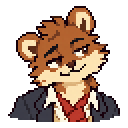
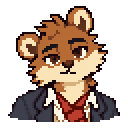
ch1 preview: 역전재판식 증거 창(짧은 한 줄·자세히 보기·다람 메모 선택), 증언 겹침·번짐 수정, 재탭 네모 상자 수정, 아빠 기본 프로필 교체
- 증거 획득 창: 그림/노란 띠 제목/짧은 한 줄, 자세히 보기·다람 메모는 눌러야 열림, 《이름》을 기록에 넣었다
- 기록 상세 동일 방식(가운데 쪽지), 증언은 다람 메모 없음, 별표·줄기 숨김, 인물 탭에 아빠·다람 기본 정보
- 증언 .cr-q/.cr-a 같은 칸 겹침, Galmuri11B 이중 굵게 합성 제거(patches/25)
- 챙긴 증거 자리 재탭 시 침대 관찰로 새어 '확인' 상자가 생기던 문제, 관찰 자리 표시 제거
- 배경음 조사/회의/결정 장면 분리, 쉼표 두 줄·멈춤, 전자음 타자, 음량 실시간(patches/24)
- 아빠 기본 프로필: 사용자 확정 정직·따뜻한 얼굴, 이전 능청 얼굴은 father-sly-*로 보존(연결 없음)

Claude-Session: https://claude.ai/code/session_01T49VRF9dewW4fTqd45Bdaz

diff --git a/preview/ch1-gpt-20261008/dev/inn_ui9.js b/preview/ch1-gpt-20261008/dev/inn_ui9.js
@@ -37,7 +37,7 @@
   function mvClose(){if(MV){MV.remove();MV=null}B.classList.remove("innmv-on")}
   function mvOpen(btn){mvClose();var c=CASES[G.ci],h='<div class="hd"><b>장소 이동</b><button type="button" data-x="1" aria-label="닫기">×</button></div><div class="ls">';
    c.locations.forEach(function(l,i){var open=true;try{open=locOpen(c,i)}catch(e){}if(!open)return;var here=i===G.loc;
-    h+='<button type="button" data-i="'+i+'"'+(here?' disabled aria-current="true"':'')+'><span>'+(SHORT[l.id]||l.name)+'</span>'+(here?'<small>지금 여기</small>':'<i aria-hidden="true">›</i>')+'</button>'});
+    h+='<button type="button" data-i="'+i+'"'+(here?' disabled aria-current="true"':'')+'><span>'+(SHORT[l.id]||l.name)+'</span>'+(here?'<small>지금 여기</small>':'')+'</button>'});
    h+='</div><button type="button" class="wm" data-map="1">전체 지도</button>';
    MV=document.createElement("div");MV.id="innmove";MV.setAttribute("role","dialog");MV.setAttribute("aria-label","장소 이동");MV.innerHTML=h;B.appendChild(MV);B.classList.add("innmv-on");
    MV.addEventListener("click",function(e){var t=e.target.closest("button");if(!t)return;e.preventDefault();e.stopPropagation();
@@ -77,6 +77,9 @@
    /* 2026-10-10 "가방 누르는 범위가 그림과 안 맞는다": 증거 지점·인물 바로 옆(28px 안)을 누르면 큰 물건 관찰(예: 침대) 대신 그 지점을 연다 */
    var near=null,nd=1e9;[].slice.call(d.sc.querySelectorAll(".hot:not(.done),.npc")).forEach(function(h){var r=h.getBoundingClientRect();if(!r.width)return;var dx=Math.max(r.left-e.clientX,0,e.clientX-r.right),dy=Math.max(r.top-e.clientY,0,e.clientY-r.bottom),dd=Math.max(dx,dy);if(dd<=28&&dd<nd){nd=dd;near=h}});
    if(near){setTimeout(function(){try{near.click()}catch(x){}},0);return}
+   /* 2026-10-10 "침대·자물쇠 상자를 다시 누르면 다른 네모 상자가 생긴다": 이미 챙긴 증거 자리(주머니·손자국·상자)를 다시 누르면 뒤의 침대 관찰로 새어 나가 엉뚱한 자리에 표시가 생기던 문제. 그 증거 이름만 짧게 알려 준다 */
+   var dn=null;nd=1e9;[].slice.call(d.sc.querySelectorAll(".hot.done[data-done]")).forEach(function(h){var r=h.getBoundingClientRect();if(!r.width)return;var dx=Math.max(r.left-e.clientX,0,e.clientX-r.right),dy=Math.max(r.top-e.clientY,0,e.clientY-r.bottom),dd=Math.max(dx,dy);if(dd<=28&&dd<nd){nd=dd;dn=h}});
+   if(dn){var ev=(window.EP1INN&&window.EP1INN.EV||{})[dn.dataset.done];try{SFX.select()}catch(x){}obShow("("+(ev?ev.name:"이미 살펴본 곳")+". 이미 증거로 챙겼다.)");return}
    var l=loc(),list=l&&OBS[l.id],p=worldPt(d.sc,e.clientX,e.clientY),hit=null;
    var hi=-1;if(list&&p)for(var i=0;i<list.length;i++){var r=list[i];if(p.x>=r[0]&&p.x<=r[0]+r[2]&&p.y>=r[1]&&p.y<=r[1]+r[3]){hit=r[4];hi=i;break}}
    if(hi>=0){markSeen(l.id,hi);setTimeout(drawMarks,0)}
@@ -124,7 +127,7 @@
    "html body.w209.inn1 .fstalk .tpanel .topic{position:relative!important;min-height:40px!important;padding:6px 10px 6px 30px!important;text-align:left!important;border-width:1.5px!important}",
    "html body.w209.inn1 .fstalk .tpanel .topic .tn{position:absolute!important;left:10px!important;top:50%!important;transform:translateY(-50%)!important;margin:0!important}",
    "html body.w209.inn1 .fstalk .tpanel .topic.done{background:rgba(226,214,188,.92)!important;color:#5A4A36!important}",
-   "html body.w209.inn1 .fstalk .tpanel .topic.done::before{content:'✓';position:absolute;left:9px;top:50%;transform:translateY(-50%);font-size:15px;color:#3D7A4A;font-weight:700}",
+   "html body.w209.inn1 .fstalk .tpanel .topic.done::before{content:'들음';position:absolute;left:auto;right:9px;top:50%;transform:translateY(-50%);font-size:var(--t-cap,12px);color:#3D7A4A;font-weight:400}","html body.w209.inn1 .fstalk .tpanel .topic.done{padding-left:12px!important;padding-right:44px!important}",
    "html body.w209.inn1 .fstalk .tpanel .topic.done::after{display:none!important}",
    "html body.w209.inn1 .fstalk .tpanel .topic.done .tn{display:none!important}",
    "html body.w209.inn1 .fstalk .tpanel .topic:focus-visible,html body.w209.inn1 .fstalk .tpanel .topic.sel9{outline:2px solid #FFD84D!important;outline-offset:0!important;border-color:#B8860B!important}",
@@ -168,6 +171,41 @@
    "html body.w209.inn1 .fstalk .tstage .tfig img[data-fr9]{animation:in9 .24s ease-out}@keyframes in9{from{opacity:0;translate:0 10px}to{opacity:1;translate:0 0}}",
    "html body.w209.inn1 .fstalk .tstage .tfig img.bump9{animation:bump9 .28s ease-out!important}@keyframes bump9{40%{translate:0 -8px}100%{translate:0 0}}",
    /* 증거 획득 창: 그림 왼쪽·글 오른쪽, 확인 단추는 글자 크기에 맞춘 보통 크기 */
+   "#e9pop{position:fixed;inset:0;z-index:2000;background:rgba(10,8,6,.55);display:flex;align-items:center;justify-content:center;padding:16px;box-sizing:border-box;cursor:pointer}",
+   "#e9pop .e9pc{width:min(580px,100%);max-height:100%;overflow-y:auto;box-sizing:border-box;background:#FBF4E2;border:3px solid #6B4A2B;box-shadow:0 0 0 3px #2A1C12;padding:12px 18px 10px;text-align:left}",
+   "#e9pop b{display:inline-block;background:#F2C230;color:#2A1C12;padding:2px 10px;font:400 16px/1.4 Galmuri11B,Galmuri11,monospace}",
+   "#e9pop p{margin:8px 0 4px;font:400 16px/1.75 Galmuri11,monospace;color:#2A1C12;word-break:keep-all}",
+   "#e9pop small{display:block;text-align:right;font:400 12px Galmuri11,monospace;color:#8A5E36}",
+   "html body.w209.inn1 .crec2 #crdaram,html body.w209.inn1 .crec2 .cr-det:not(.empty) .cr-tx>#crdaram{display:none!important}",
+   "html body.w209.inn1 .crec2 .cr-det .dmemo{display:none!important}",
+   "html body.w209.inn1 .crec2 .cr-det .cr-tx>h3{background:#F2C230!important;color:#2A1C12!important;padding:3px 10px!important;margin:0 0 4px!important;border:0!important;background-image:none!important}",
+   "html body.w209.inn1 .crec2 .cr-det .cr-tx>p{line-height:30px!important;background:repeating-linear-gradient(to bottom,transparent 0 28px,#C9B48C 28px 29px,transparent 29px 30px)}",
+   "html body.w209.inn1 .crec2 .orig9{margin:6px 0 0}",
+   "html body.w209.inn1 .crec2 .orig9 .e9opt{display:flex;gap:8px;flex-wrap:wrap}",
+   "html body.w209.inn1 .crec2 .orig9 button.e9b{all:unset;cursor:pointer;box-sizing:border-box;font:400 13px/20px Galmuri11,monospace;padding:4px 12px;min-height:32px;border:2px solid #8A5E36;border-radius:4px;color:#6B4A2B;background:#FFF9EA}",
+   "html body.w209.inn1 .crec2 .orig9 button.e9b.on{background:#6B4A2B;color:#FFF6E0}",
+   "html body.w209.inn1 #ov .modal.ev9{display:flex!important;flex-direction:column!important;align-items:stretch!important;justify-content:flex-start!important;gap:8px!important;width:min(700px,calc(100vw - 24px))!important;max-width:none!important;max-height:calc(100vh - 16px)!important;height:auto!important;min-height:0!important;padding:12px 14px 10px!important;text-align:left!important;overflow:hidden!important;background:#FBF4E2!important;border:3px solid #6B4A2B!important;box-shadow:0 0 0 3px #2A1C12,0 6px 0 rgba(0,0,0,.35)!important;border-radius:6px!important;box-sizing:border-box!important}",
+   "html body.w209.inn1 #ov .modal.ev9::before,html body.w209.inn1 #ov .modal.ev9::after{display:none!important}",
+   "html body.w209.inn1 #ov .modal.ev9 .e9card{width:100%;box-sizing:border-box;justify-content:stretch;display:grid;grid-template-columns:auto minmax(0,1fr);column-gap:16px;min-height:0;flex:1 1 auto;overflow:hidden}",
+   "html body.w209.inn1 #ov .modal.ev9 .e9ic{width:124px;height:124px;background:#E9DFC8;border:3px solid #3B2A1E;box-shadow:inset 0 0 0 3px #F6EEDB;display:grid;place-items:center;align-self:start}",
+   "html body.w209.inn1 #ov .modal.ev9 .e9ic>*{width:100%!important;height:100%!important;border:0!important;border-radius:0!important;box-shadow:none!important;background:transparent!important;margin:0!important;animation:none!important;display:grid!important;place-items:center!important}",
+   "html body.w209.inn1 #ov .modal.ev9 .e9ic svg{width:100px!important;height:100px!important}",
+   "html body.w209.inn1 #ov .modal.ev9 .e9tx{min-height:0;overflow-y:auto;overscroll-behavior:contain;display:flex;flex-direction:column;gap:5px;padding-right:2px}",
+   "html body.w209.inn1 #ov .modal.ev9 .e9k{font:400 12px/1.3 Galmuri11,monospace;color:#A23B2A;letter-spacing:.04em}",
+   "html body.w209.inn1 #ov .modal.ev9 .e9t{margin:0!important;background:#F2C230;color:#2A1C12;padding:3px 10px!important;font:400 20px/1.3 Galmuri11B,Galmuri11,monospace!important;text-align:left!important;border:0!important}",
+   "html body.w209.inn1 #ov .modal.ev9 .e9d{margin:2px 0 0!important;font:400 16px/30px Galmuri11,monospace!important;color:#2A1C12!important;text-align:left!important;word-break:keep-all;background:repeating-linear-gradient(to bottom,transparent 0 28px,#C9B48C 28px 29px,transparent 29px 30px)}",
+   "html body.w209.inn1 #ov .modal.ev9 .e9opt{display:flex;gap:8px;flex-wrap:wrap;margin-top:4px}",
+   "html body.w209.inn1 #ov .modal.ev9 button.e9b{all:unset;cursor:pointer;box-sizing:border-box;font:400 13px/20px Galmuri11,monospace;padding:4px 12px;min-height:32px;border:2px solid #8A5E36;border-radius:4px;color:#6B4A2B;background:#FFF9EA}",
+   "html body.w209.inn1 #ov .modal.ev9 button.e9b.on{background:#6B4A2B;color:#FFF6E0}",
+   "html body.w209.inn1 #ov .modal.ev9 .e9pan{font:400 14px/1.6 Galmuri11,monospace;color:#4A3A28;background:#F3E8CC;border-left:3px solid #B98A3E;padding:6px 10px;text-align:left}",
+   "html body.w209.inn1 #ov .modal.ev9 .e9pan[hidden]{display:none!important}",
+   "html body.w209.inn1 #ov .modal.ev9 .e9pan small{display:block;color:#8A5E36;font-size:12px;margin-bottom:2px}",
+   "html body.w209.inn1 #ov .modal.ev9 .e9pan p{margin:0}",
+   "html body.w209.inn1 #ov .modal.ev9 .e9foot{width:100%;box-sizing:border-box;display:flex;align-items:center;gap:12px;border-top:2px solid #D9C7A0;padding-top:8px;flex:0 0 auto}",
+   "html body.w209.inn1 #ov .modal.ev9 .e9add{flex:1;font:400 15px/1.4 Galmuri11,monospace;color:#2F4E86;text-align:left}",
+   "html body.w209.inn1 #ov .modal.ev9 #okfind{position:static!important;margin:0!important;width:auto!important;min-width:100px!important;min-height:40px!important;height:42px!important;padding:0 20px!important;line-height:1!important;display:inline-flex!important;align-items:center!important;justify-content:center!important;box-sizing:border-box!important;grid-row:auto!important;flex:0 0 auto}",
+   "@media (max-height:380px){html body.w209.inn1 #ov .modal.ev9 .e9ic{width:100px;height:100px}html body.w209.inn1 #ov .modal.ev9 .e9ic svg{width:80px!important;height:80px!important}html body.w209.inn1 #ov .modal.ev9 .e9t{font-size:18px!important}}",
+   "@media (max-width:560px){html body.w209.inn1 #ov .modal.ev9 .e9ic{width:84px;height:84px}html body.w209.inn1 #ov .modal.ev9 .e9ic svg{width:68px!important;height:68px!important}}",
    "html body.w209.inn1 #ov .modal:has(>.foundic){display:grid!important;grid-template-columns:92px minmax(0,1fr);column-gap:16px;align-items:start;text-align:left;width:min(560px,calc(100vw - 32px))!important}",
    "html body.w209.inn1 #ov .modal:has(>.foundic)>*{grid-column:2;margin-top:0}",
    "html body.w209.inn1 #ov .modal:has(>.fbody9){max-height:calc(100vh - 20px)!important;height:auto!important;overflow:hidden!important;grid-template-rows:auto auto!important;row-gap:0!important}",
@@ -180,8 +218,8 @@
    /* 조사 체크 표시 */
    "html body.w209.inn1 #bigscene .hot.done{display:block!important;visibility:visible!important;pointer-events:none!important;background:transparent!important;border:0!important;box-shadow:none!important;animation:none!important}",
    "html body.w209.inn1 #bigscene .hot.done>*{opacity:0!important;visibility:hidden!important}",
-   "html body.w209.inn1 #bigscene .hot.done::after{content:'✓'!important;position:absolute!important;left:50%!important;top:50%!important;right:auto!important;bottom:auto!important;transform:translate(-50%,-50%)!important;width:26px!important;height:26px!important;border-radius:50%!important;background:rgba(61,122,74,.92)!important;color:#fff!important;font:700 16px/26px sans-serif!important;text-align:center!important;box-shadow:0 0 0 2px #FFF6E0!important;opacity:1!important;visibility:visible!important;display:block!important;border:0!important}",
-   "#innmk9{position:fixed;inset:0;pointer-events:none;z-index:6}#innmk9 i{position:absolute;transform:translate(-50%,-50%);width:18px;height:18px;border-radius:50%;background:rgba(61,122,74,.78);color:#fff;font:700 12px/18px sans-serif;text-align:center;font-style:normal;box-shadow:0 0 0 1.5px rgba(255,246,224,.85)}",
+   "html body.w209.inn1 #bigscene .hot.done::after{content:'확인'!important;position:absolute!important;left:50%!important;top:50%!important;right:auto!important;bottom:auto!important;transform:translate(-50%,-50%)!important;width:auto!important;height:auto!important;padding:1px 6px!important;border-radius:6px!important;background:rgba(61,122,74,.92)!important;color:#fff!important;font:400 11px/16px var(--display,Galmuri11,sans-serif)!important;white-space:nowrap!important;text-align:center!important;box-shadow:0 0 0 2px #FFF6E0!important;opacity:1!important;visibility:visible!important;display:block!important;border:0!important}",
+   "#innmk9{position:fixed;inset:0;pointer-events:none;z-index:6}#innmk9 i{position:absolute;transform:translate(-50%,-50%);padding:0 5px;border-radius:5px;background:rgba(61,122,74,.78);color:#fff;font:400 10px/15px Galmuri11,sans-serif;white-space:nowrap;text-align:center;font-style:normal;box-shadow:0 0 0 1.5px rgba(255,246,224,.85)}",
    /* 인물 탭 */
    "#innppl{position:fixed;inset:0;z-index:80;background:rgba(8,10,24,.55);display:flex;align-items:center;justify-content:center}",
    "#innppl .pin{width:min(820px,calc(100vw - 24px));height:calc(100vh - 20px);box-sizing:border-box;display:flex;flex-direction:column;background:#FFF8E8;border:2px solid #C9A96A;border-radius:12px;padding:10px 12px;color:#2A1F16}",
@@ -208,6 +246,14 @@
    "html body.w209.inn1 mark.kw,html body.w209.inn1 .vband mark.kw,html body.w209.inn1:not(.ds-mc) .vband:not(.narr) mark.kw{color:inherit!important;background:none!important;font-weight:inherit!important;padding:0!important}",   /* 장소·시각 강조(빨강+노랑 밑줄) 없앰 */
    "html body.w209.inn1 .crec2 .cr-det{overflow-y:auto!important;overscroll-behavior:contain}html body.w209.inn1 .crec2 .cr-det .cr-tx{padding-bottom:40px!important}",   /* 긴 증거 글이 아래 단추에 가려 잘리던 것: 상세 칸 안에서 스크롤 */
    ".crec2 .orig9{margin:4px 0;font-size:var(--t-cap,12px);color:#5A4A36}.crec2 .orig9 summary{cursor:pointer;color:#8A5A2A;min-height:28px;line-height:28px}.crec2 .orig9 p{margin:2px 0 0;line-height:1.5}",
+   /* 2026-10-10: 증언 상세에서 질문 줄과 답 줄이 같은 칸에 겹쳐 흐리게 보이던 문제 → 질문 2행, 답 3행 */
+   "html body.w209.inn1 .crec2 .cr-det .cr-tx>.cr-q{grid-row:2!important;margin:0!important;border-bottom:0!important;padding-bottom:0!important}html body.w209.inn1 .crec2 .cr-det .cr-tx>.cr-a{grid-row:3!important}",
+   /* 별표(중요 표시)는 쓰지 않는다 */
+   "html body.w209.inn1 .crec2 #crpin,html body.w209.inn1 .evfil [data-evf=\"pin\"]{display:none!important}",
+   /* 2026-10-10: '줄기'(사건 줄기) 기능은 1장에서 동작하지 않아 메뉴에서 뺀다 */
+   "html body.w209.inn1 #w209rail [data-w=\"spine\"],html body.w209.inn1 #w209more [data-w=\"spine\"]{display:none!important}",
+   /* 증언 카드·기록 증언에는 다람 수첩을 넣지 않는다(글이 너무 길어짐) */
+   "html body.w209.inn1 #ov .modal.testi9 .soft,html body.w209.inn1 .crec2.testi9 .dmemo{display:none!important}",
    "#innppl ul{margin:4px 0 0;padding:0;list-style:none}#innppl li{font-size:var(--t-cap,12px);line-height:1.45;margin-top:3px}#innppl li b{display:block;color:#3D5E45;font-weight:700}#innppl .no{color:#8A7A5A!important}"
   ].join("\n");document.head.appendChild(css);
 
@@ -245,20 +291,23 @@
   /* (7) 조사 체크 표시: 살펴본 증거 지점은 ✓ 표시를 남기고(옛 아이콘은 숨김), 관찰한 물건도 작은 ✓를 이 방에 남긴다 */
   var SEEN={};try{SEEN=JSON.parse(sessionStorage.getItem("inn9seen")||"{}")||{}}catch(e){SEEN={}}
   function markSeen(lid,idx){(SEEN[lid]=SEEN[lid]||{})[idx]=1;try{sessionStorage.setItem("inn9seen",JSON.stringify(SEEN))}catch(e){}}
-  function drawMarks(){try{var sc=document.getElementById("bigscene"),L0=document.getElementById("innmk9");if(!sc||!inn()||G.tab!=="scene"||dl()||document.querySelector("#ov .modal,.crec2,#wmap")){if(L0)L0.innerHTML="";return}var l=loc(),list=l&&OBS[l.id],seen=l&&SEEN[l.id];var lay=document.getElementById("innmk9");
+  function drawMarks(){var L1=document.getElementById("innmk9");if(L1)L1.remove();return;/* 관찰 자리 표시는 쓰지 않는다(누른 곳과 다른 자리에 \"확인\" 상자가 생겨 혼란, 2026-10-10) */try{var sc=document.getElementById("bigscene"),L0=document.getElementById("innmk9");if(!sc||!inn()||G.tab!=="scene"||dl()||document.querySelector("#ov .modal,.crec2,#wmap")){if(L0)L0.innerHTML="";return}var l=loc(),list=l&&OBS[l.id],seen=l&&SEEN[l.id];var lay=document.getElementById("innmk9");
     if(!list||!seen){if(lay)lay.remove();return}if(!lay){lay=document.createElement("div");lay.id="innmk9";B.appendChild(lay)}
     var sv=sc.querySelector("svg[data-inn-world]")||sc.querySelector("svg[data-bg]")||sc.querySelector("svg"),m=sv&&sv.getScreenCTM&&sv.getScreenCTM(),br=sc.getBoundingClientRect();if(!m)return;var h="";
-    Object.keys(seen).forEach(function(i){var r=list[i];if(!r)return;var p=sv.createSVGPoint();p.x=r[0]+r[2]/2;p.y=r[1]+Math.min(r[3]/2,40);var q=p.matrixTransform(m);if(q.x>br.left-4&&q.x<br.right+4)h+='<i style="left:'+Math.round(q.x)+'px;top:'+Math.round(q.y)+'px">✓</i>'});
+    Object.keys(seen).forEach(function(i){var r=list[i];if(!r)return;var p=sv.createSVGPoint();p.x=r[0]+r[2]/2;p.y=r[1]+Math.min(r[3]/2,40);var q=p.matrixTransform(m);if(q.x>br.left-4&&q.x<br.right+4)h+='<i style="left:'+Math.round(q.x)+'px;top:'+Math.round(q.y)+'px">확인</i>'});
     if(lay.innerHTML!==h)lay.innerHTML=h}catch(e){}}
 
   /* (8) 기록 안 '인물' 탭: 만난 사람만, 이미 나온 정보(이름·하는 일·이 여관과의 관계)와 직접 물어 들은 말만. 새 설정·스포일러 없음 */
   var ROLE={innma:["여관 주인","이 여관을 꾸려 가는 토끼 할머니"],seryeon:["외지 손님","어젯밤 이 여관에 묵은 손님"],nabi:["여관 일을 돕는 고양이","여관에서 일한다"],geokkuri:["겨울 장기 투숙객","이 여관 2층에 겨울 동안 묵는다"],
    doto:["투숙객","여관 2층 방에 묵는다"],buri:["장치공","여관 일을 손봐 준다"],wanggu:["마을 규정 담당","주민 규약과 기록을 맡는다"],karo:["마차 마부","우리를 태우고 마을에 왔다"]};
   var ORDER=["innma","nabi","seryeon","buri","wanggu","karo","geokkuri","doto"];
+  /* 아빠·다람은 늘 맨 앞에(기본 정보만, 증언 없음) */
+  var SELF=[["det0","아빠","탐정 · 다람의 아빠","다람과 함께 마차를 타고 와서 이 여관에 묵는 손님","art/ch1/father/father-profile-128.png?v=n2"],["det1","다람","탐정 · 아빠의 딸","아빠와 함께 이 여관에 묵는 손님","art/ch1/action-poses/daram/profile.png"]];
   function metMark(){try{if(!inn()||!dl())return;var ln=DL.lines[DL.i];var w=ln&&ln[0];if(!ROLE[w])return;var pl=document.querySelector("#vnbox .plate");if(pl&&/\?\?\?/.test(pl.textContent))return;G.beats=G.beats||{};if(!G.beats["inn_met_"+w]){G.beats["inn_met_"+w]=1}}catch(e){}}
   function metList(){var b=G.beats||{},pro=!!b.inn_pro;return ORDER.filter(function(k){if(b["inn_met_"+k])return true;if(k==="geokkuri")return G.found.indexOf("C07")>=0;if(k==="doto")return G.found.indexOf("C08")>=0;return pro&&["innma","nabi","seryeon","buri","wanggu","karo"].indexOf(k)>=0})}
   var PP=null;function pplClose(){if(PP){PP.remove();PP=null}}
   function pplOpen(){pplClose();var c=CASES[G.ci],ks=metList(),h='<div class="pin"><div class="phd"><b>인물</b><small>만난 사람 '+ks.length+'명 · 직접 들은 말만 적어요</small><button type="button" data-x="1" aria-label="닫기">×</button></div><div class="pls">';
+   SELF.forEach(function(x){h+='<section class="pc self"><div class="pf"><img alt="" src="'+x[4]+'"></div><div class="pt"><h4>'+esc(x[1])+'</h4><small>'+esc(x[2])+'</small><p>'+esc(x[3])+'</p></div></section>'});
    ks.forEach(function(k){var nm=(CAST[k]&&CAST[k].name)||k,r=ROLE[k]||["",""],said=((c.talk&&c.talk[k])||[]).filter(function(t){return G.asked.indexOf(t.id)>=0&&t.q});
     var face="";try{face=PROF[k]?'<img alt="" data-k="'+k+'" src="'+AP+PROF[k]+'/profile.png?v=e4">':pf(k,"neutral")}catch(e){}
     h+='<section class="pc"><div class="pf">'+face+'</div><div class="pt"><h4>'+esc(nm)+'</h4><small>'+esc(r[0])+'</small><p>'+esc(r[1])+'</p>'+
@@ -276,8 +325,27 @@
   /* 증거를 주는 질문(C12 등)은 답이 끝난 뒤 질문 화면이 다시 그려지지 않아 읽음 체크가 안 붙고 같은 질문이 또 눌리던 문제: 들은 질문이 남아 있으면 한 번 다시 그린다 */
   function topicSync(){try{if(dl()||G.tab!=="talk"||document.querySelector("#ov .modal,.cutin,.crec2"))return;var stale=[].slice.call(document.querySelectorAll(".fstalk .topic[data-ask]")).some(function(t){return G.asked.indexOf(t.dataset.ask)>=0});if(stale)render()}catch(e){}}
   /* 증거 획득 창: 글은 오른쪽 칸 안에서만 스크롤하고, 확인 단추는 그 아래 별도 줄(긴 증언에서도 글을 가리지 않음) */
-  function cardWrap(){try{var m=document.querySelector("#ov .modal");if(!m||!m.querySelector(":scope>.foundic")||m.querySelector(":scope>.fbody9"))return;var ok=m.querySelector(":scope>#okfind"),w=document.createElement("div");w.className="fbody9";
-    [].slice.call(m.children).forEach(function(ch){if(!ch.classList.contains("foundic")&&ch!==ok)w.appendChild(ch)});m.insertBefore(w,ok||null)}catch(e){}}
+  /* 2026-10-10 사용자 "증거가 너무 길다 · 다람 메모는 옵션으로 · UI가 직관적이어야" (역전재판식 참고 화면):
+     증거 획득 창 = 왼쪽 그림 / 노란 띠 제목 / 짧은 한두 줄 / [자세히 보기]·[다람 메모]는 눌러야 열림 / 아래 "《이름》을 기록에 넣었다." + 확인 */
+  function josa(w,a,b){var c=(w||"").replace(/[^가-힣0-9]/g,"").slice(-1),k=c.charCodeAt(0);if(k>=0xAC00&&k<=0xD7A3)return (k-0xAC00)%28?a:b;return "013678".indexOf(c)>=0?a:b}
+  function evOf(name){var E=(window.EP1INN||{}).EV||{},id=null;Object.keys(E).forEach(function(k){if(E[k].name===name||E[k].full===name)id=k});return id}
+  function fixedOf(x){try{return !!(x.fixBeat&&G.beats&&G.beats[x.fixBeat])}catch(e){return false}}
+  function cardWrap(){try{var m=document.querySelector("#ov .modal");if(!m||!inn()||m.classList.contains("ev9"))return;var ic=m.querySelector(":scope>.foundic,:scope>.bigic"),kk=m.querySelector(":scope>.kicker"),h3=m.querySelector(":scope>h3");
+    if(!ic||!kk||!h3||!/증거 (발견|획득)/.test(kk.textContent))return;if(!m.dataset.found){clearTimeout(cardWrap.t);cardWrap.t=setTimeout(cardWrap,50);return}var ok=m.querySelector(":scope>#okfind");var id=evOf(h3.textContent.trim()),E=(window.EP1INN||{}).EV||{},x=id&&E[id];
+    var fx=x&&fixedOf(x),short=x?(fx&&x.desc2?x.desc2:x.desc):"",det=x?(fx&&x.detail2?x.detail2:(x.detail||"")):"",memo="";
+    var T={C03:1,C07:1,C12:1,C13:1};try{if(!T[id]&&window.__memoOf)memo=window.__memoOf(CASES[G.ci],id)||""}catch(e){}
+    var at=m.querySelector(".found-at"),place=at?at.textContent:"",who=(kk.textContent.split("·")[1]||"").trim();
+    if(!short){var p0=m.querySelector(":scope>p");short=p0?p0.textContent:""}
+    var nm=h3.textContent.trim();m.classList.add("ev9");
+    var card=document.createElement("div");card.className="e9card";card.innerHTML='<div class="e9ic"></div><div class="e9tx"><div class="e9k"></div><h3 class="e9t"></h3><p class="e9d"></p><div class="e9opt"></div><div class="e9pan" hidden></div></div>';
+    card.querySelector(".e9ic").appendChild(ic);card.querySelector(".e9k").textContent="증거 발견"+(who?" · "+who:"");card.querySelector(".e9t").textContent=nm;card.querySelector(".e9d").textContent=short;
+    var opt=card.querySelector(".e9opt"),pan=card.querySelector(".e9pan");
+    function addB(lbl,fill){var b=document.createElement("button");b.type="button";b.className="e9b";b.textContent=lbl;b.addEventListener("click",function(ev){ev.stopPropagation();var on=b.classList.contains("on");opt.querySelectorAll(".e9b").forEach(function(o){o.classList.remove("on")});if(on){pan.hidden=true;return}b.classList.add("on");pan.innerHTML="";fill(pan);pan.hidden=false;try{SFX.select()}catch(e){}});opt.appendChild(b)}
+    if(det&&det!==short||place)addB("자세히 보기",function(P){if(place){var a=document.createElement("small");a.textContent=place;P.appendChild(a)}if(det){var q=document.createElement("p");q.textContent=det;P.appendChild(q)}});
+    if(memo)addB("다람 메모",function(P){var q=document.createElement("p");q.className="e9memo";q.textContent=memo;P.appendChild(q)});
+    var add=document.createElement("div");add.className="e9add";add.textContent="《"+nm+"》"+josa(nm,"을","를")+" 기록에 넣었다.";
+    var foot=document.createElement("div");foot.className="e9foot";foot.appendChild(add);if(ok)foot.appendChild(ok);
+    [].slice.call(m.children).forEach(function(ch){ch.remove()});m.appendChild(card);m.appendChild(foot)}catch(e){}}
   try{new MutationObserver(cardWrap).observe(document.documentElement,{childList:true,subtree:true})}catch(e){}
   var lastK="",lastSrc="";function bump(){try{var i=document.querySelector(".fstalk .tstage .tfig img");if(!i)return;var k=i.dataset.k,s=i.getAttribute("src");if(k===lastK&&s!==lastSrc){i.classList.remove("bump9");void i.offsetWidth;i.classList.add("bump9")}lastK=k;lastSrc=s}catch(e){}}
 
@@ -318,7 +386,7 @@
   /* 2026-10-10 깜빡임 수정: 엔진은 대사마다 대사창 노드를 새로 만든다. 예전엔 초상·여백을 최대 60ms 뒤에 붙여 창 높이·글 위치가 한 프레임씩 튀었다.
      이제 여백·높이는 CSS로 늘 같고, 초상은 같은 img 요소 하나를 새 창으로 옮겨 붙인다(새로 받지 않음). 노드가 생기는 즉시(그리기 전, MutationObserver) 처리 */
   var SPK=document.createElement("span");SPK.className="spk9";SPK.setAttribute("aria-hidden","true");SPK.innerHTML="<img alt=''>";var SPKIMG=SPK.firstChild,SPKC={};
-  var DAD="art/ch1/father/father-speaker128.png";   /* 아빠 프로필 v4(2026-10-09 사용자 최종 선택) — 화자 칸에만 */
+  var DAD="art/ch1/father/father-speaker128.png?v=n2";   /* 아빠 기본 프로필: 2026-10-09 사용자 확정 정직·따뜻한 얼굴(이전 능청 얼굴은 father-sly-*로 보존, 연결 없음) — 화자 칸에만 */
   function spkSrc(k){return k==="det0"?DAD:(PROF[k]?AP+PROF[k]+"/speaker128.png":"")}
   [DAD].concat(Object.keys(PROF).map(function(k){return AP+PROF[k]+"/speaker128.png"})).forEach(function(f){var im=new Image();im.src=f;SPKC[f]=im;try{im.decode&&im.decode().catch(function(){})}catch(e){}});
   function speaker(){try{if(!inn()||!dl())return;var vt=document.querySelector("#vnbox .vtxt");if(!vt)return;var ln=DL.lines[DL.i]||[],w=ln[0],vb=vt.closest(".vband");
@@ -329,12 +397,25 @@
   setInterval(speaker,120);
 
   /* 기록 증거 상세: '원문 보기'로 축약 전 원문(그대로 보존)을 펼친다 */
+  /* 기록 화면의 [자세히 보기]·[다람 메모]: 화면 가운데 쪽지로 띄우고, 누르면 닫힌다(좁은 화면에서 목록에 가려지지 않게 body에 붙인다) */
+  function pop9(title,text,onClose){var o=document.getElementById("e9pop");if(o){var f=o._c;o.remove();if(f)try{f()}catch(e){}}if(!title)return;
+    o=document.createElement("div");o.id="e9pop";o._c=onClose;o.innerHTML='<div class="e9pc"><b></b><p></p><small>눌러서 닫기</small></div>';o.querySelector("b").textContent=title;o.querySelector("p").textContent=text;
+    o.addEventListener("click",function(e){e.stopPropagation();pop9()});document.body.appendChild(o);try{SFX.select()}catch(e){}}
+  setInterval(function(){if(document.getElementById("e9pop")&&!document.querySelector(".crec2"))pop9()},400);
+  /* C12·C13(증언 기록)은 아직 전용 아이콘이 없어 노란 동그라미가 나오던 자리: 아이콘 납품 전까지 말한 사람 얼굴로 둔다 */
+  try{var _ev9=evIcon;evIcon=function(id){if(inn()&&(id==="C12"||id==="C13")){try{return pf(id==="C12"?"seryeon":"geokkuri").replace("<svg ",'<svg class="evic ev9face" ')}catch(e){}}return _ev9.apply(this,arguments)}}catch(e){}
   function recDetail(){try{var r=document.querySelector(".crec2");if(!r||!inn())return;var th=r.querySelector(".cr-th.on");var id=th&&th.dataset.crs;var EPX=window.EP1INN||{},x=id&&EPX.EV&&EPX.EV[id];
     var host=r.querySelector(".cr-in");if(!host)return;var box=r.querySelector(".orig9");if(box&&!r.querySelector(".cr-det .cr-tx .orig9")){box.remove();box=null}
     if(!x||!x.detail){if(box)box.remove();return}
     var fixed=false;try{fixed=!!(x.fixBeat&&G.beats&&G.beats[x.fixBeat])}catch(e){}var txt=fixed&&x.detail2?x.detail2:x.detail;
     if(box&&box.dataset.id===id+(fixed?"f":""))return;if(box)box.remove();
-    box=document.createElement("details");box.className="orig9";box.dataset.id=id+(fixed?"f":"");box.innerHTML="<summary>원문 보기</summary><p></p>";box.querySelector("p").textContent=txt;
+    box=document.createElement("div");box.className="orig9";box.dataset.id=id+(fixed?"f":"");var mm="";try{if(!{C03:1,C07:1,C12:1,C13:1}[id]&&window.__memoOf)mm=window.__memoOf(CASES[G.ci],id)||""}catch(e){}box.innerHTML='<div class="e9opt"><button type="button" class="e9b" data-o="d">자세히 보기</button>'+(mm?'<button type="button" class="e9b" data-o="m">다람 메모</button>':'')+'</div>';[].slice.call(box.querySelectorAll(".e9b")).forEach(function(b){b.addEventListener("click",function(ev){ev.stopPropagation();var on=b.classList.contains("on");box.querySelectorAll(".e9b").forEach(function(o){o.classList.remove("on")});if(on){pop9();return}b.classList.add("on");pop9(b.dataset.o==="m"?"다람 메모":"자세히 보기",b.dataset.o==="m"?mm:txt,function(){b.classList.remove("on")})})});
     var tp=r.querySelector(".cr-det .cr-tx>p");if(tp)tp.insertAdjacentElement("afterend",box);else (r.querySelector(".cr-det")||host).appendChild(box)}catch(e){}}
+
+  /* 증언(들은 말) 카드 표시: 증거 획득 창과 기록 상세에서 다람 수첩을 숨기도록 표시만 붙인다 */
+  var TESTI={C03:1,C07:1,C12:1,C13:1};
+  function testiMark(){try{var m=document.querySelector("#ov .modal");if(m&&m.querySelector(":scope .foundic, :scope>.foundic")){var h=m.querySelector("h3"),E=window.EP1INN||{},id=null;if(h&&E.EV)Object.keys(E.EV).forEach(function(k){if(E.EV[k].name===h.textContent.trim())id=k});m.classList.toggle("testi9",!!(id&&TESTI[id]))}
+    var r=document.querySelector(".crec2");if(r){var th=r.querySelector(".cr-th.on"),tid=th&&th.dataset.crs,tab=r.querySelector('[data-crt="t"]');var testi=(tid&&TESTI[tid])||(tab&&/on|true/.test(tab.className+" "+tab.getAttribute("aria-pressed")));r.classList.toggle("testi9",!!testi)}}catch(e){}}
+  try{new MutationObserver(testiMark).observe(document.documentElement,{childList:true,subtree:true})}catch(e){}
   window.__innUI9={obs:function(){return window.__innObsLast||""},HK:HK,OBS:OBS};
  })();

diff --git a/preview/ch1-gpt-20261008/dev/script_a.js b/preview/ch1-gpt-20261008/dev/script_a.js
@@ -23,7 +23,7 @@
  };
  /* 증거 카드 짧은 문구(2026-10-09 축약안, e3e83ed 원문 대조): 첫 화면은 짧은 이름 + 핵심 사실, 원문은 detail(기록 '원문 보기').
     ID·획득 조건·제시 판정·수첩·대화 원문은 그대로. C13은 정정 전/후를 그대로 나눈다(fixBeat) */
- (function(){var S={"C01": {"n": "주머니와 계약서", "t": "봉인띠의 붉은 ‘세련’ 도장과 끝이 말린 별은 인주가 덜 말라 손에 묻는다. 띠 밑 여관 매매 계약서에는 할머니(매도인) 서명 없이 세련(매수인) 서명 끝에 별이 있고, 뒷면 조항은 「매도인이 숙박 허가를 잃는 날, 이 계약은 효력이 생긴다.」이다."}, "C02": {"n": "하얀 손자국", "t": "열세 번째 침대 이불 모서리에 하얀 가루 손자국이 있다."}, "C03": {"n": "나비의 말", "t": "“열한 시엔 빵 반죽하고 잤어요.”"}, "C04": {"n": "바구니 속 손님", "t": "작은 겨울잠쥐가 둥글게 몸을 말고 있다. 방 안 공기처럼 차갑고, 눈에 띄는 움직임은 없다."}, "C05": {"n": "털의 붉은 자국", "t": "옆구리털의 붉은 글씨와 별이 거꾸로 찍혀 있다. 번져도 읽히며, 붉은색은 털 안까지 배어 있다."}, "C06": {"n": "숫자 없는 시계", "t": "2층 복도가 꺾이는 곳의 벽시계는 숫자 없이 눈금만 있다. 등잔이 비추며, 옆에 작은 창이 있다."}, "C07": {"n": "밤이의 잠자리", "t": "밤이: “밤엔 2층 복도 시계 맞은편 천장에 매달려 있어요. 새벽 5시 종에 자요.”"}, "C08": {"n": "날씨 일지", "t": "어젯밤 기록: 「자정, 첫눈」. 도토는 종이 12번 친 것을 세었다고 한다."}, "C09": {"n": "세련의 숙박부", "t": "1박, 정오 마차로 출발 예정."}, "C10": {"n": "너울의 기록", "t": "「부엌에서 손님 하나 추가 발견.」"}, "C11": {"n": "옛 손님 장부", "t": "비공식 손님 장부 첫째 권: 30년 전~10년 전 기록. ‘이름 모르는 손님’이 많고, 이름 대신 발자국·꽃·동그라미·별을 그린 줄이 있다."}, "C12": {"n": "세련의 말", "t": "세련: “11시 종에 주머니를 봉해 머리맡에 두고 잤고, 자정에도 잤다. 회중시계로 6시 반 기상을 확인했고, 주머니가 없어 복도까지 찾다 7시에 알렸으며, 여관은 어제가 처음이다.”"}, "C13": {"n": "밤이의 목격담", "t": "밤이: “6시 반쯤 족제비 손님이 붉은 봉인띠를 두른 가죽 주머니를 들고 시계 앞을 지나 저쪽으로 갔다가 금방 빈손으로 왔다.” 보여 준 돈주머니가 맞다고 했다.", "t2": "밤이: “자정쯤 족제비 손님이 붉은 봉인띠를 두른 가죽 주머니를 들고 시계 앞을 지나 저쪽으로 갔다가 금방 빈손으로 왔다.” 보여 준 돈주머니가 맞다고 했으며, 회의에서 목격 시각을 자정으로 정정했다."}};Object.keys(S).forEach(function(id){var x=EP.EV[id],o=S[id];if(!x)return;x.full=x.name;x.detail=x.desc;x.name=o.n;x.desc=o.t;if(x.desc2&&o.t2){x.detail2=x.desc2;x.desc2=o.t2}})})();
+ (function(){var SH={C01:"봉인띠에 붉은 ‘세련’ 도장. 띠 밑에 여관 매매 계약서가 있다.",C02:"열세 번째 침대 이불에 하얀 가루 손자국.",C03:"“열한 시엔 빵 반죽하고 잤어요.”",C04:"빵 바구니 속, 몸을 둥글게 만 작은 겨울잠쥐.",C05:"옆구리털에 붉은 글씨와 별이 거꾸로 찍혀 있다.",C06:"2층 복도의 벽시계. 숫자 없이 눈금만 있다.",C07:"밤에는 2층 시계 맞은편 천장. 새벽 5시 종에 잔다고 한다.",C08:"어젯밤 기록: 「자정, 첫눈」",C09:"1박, 정오 마차로 출발 예정.",C10:"「부엌에서 손님 하나 추가 발견.」",C11:"30년 전~10년 전 손님 기록. 이름 대신 그림을 남긴 줄이 있다.",C12:"11시 종에 주머니를 봉해 머리맡에 두고 잤다고 한다.",C13:"6시 반쯤 족제비 손님이 주머니를 들고 갔다가 빈손으로 왔다고 한다."},SH2={C13:"자정쯤 족제비 손님이 주머니를 들고 갔다가 빈손으로 왔다고 한다."};var S={"C01": {"n": "주머니와 계약서", "t": "봉인띠의 붉은 ‘세련’ 도장과 끝이 말린 별은 인주가 덜 말라 손에 묻는다. 띠 밑 여관 매매 계약서에는 할머니(매도인) 서명 없이 세련(매수인) 서명 끝에 별이 있고, 뒷면 조항은 「매도인이 숙박 허가를 잃는 날, 이 계약은 효력이 생긴다.」이다."}, "C02": {"n": "하얀 손자국", "t": "열세 번째 침대 이불 모서리에 하얀 가루 손자국이 있다."}, "C03": {"n": "나비의 말", "t": "“열한 시엔 빵 반죽하고 잤어요.”"}, "C04": {"n": "바구니 속 손님", "t": "작은 겨울잠쥐가 둥글게 몸을 말고 있다. 방 안 공기처럼 차갑고, 눈에 띄는 움직임은 없다."}, "C05": {"n": "털의 붉은 자국", "t": "옆구리털의 붉은 글씨와 별이 거꾸로 찍혀 있다. 번져도 읽히며, 붉은색은 털 안까지 배어 있다."}, "C06": {"n": "숫자 없는 시계", "t": "2층 복도가 꺾이는 곳의 벽시계는 숫자 없이 눈금만 있다. 등잔이 비추며, 옆에 작은 창이 있다."}, "C07": {"n": "밤이의 잠자리", "t": "밤이: “밤엔 2층 복도 시계 맞은편 천장에 매달려 있어요. 새벽 5시 종에 자요.”"}, "C08": {"n": "날씨 일지", "t": "어젯밤 기록: 「자정, 첫눈」. 도토는 종이 12번 친 것을 세었다고 한다."}, "C09": {"n": "세련의 숙박부", "t": "1박, 정오 마차로 출발 예정."}, "C10": {"n": "너울의 기록", "t": "「부엌에서 손님 하나 추가 발견.」"}, "C11": {"n": "옛 손님 장부", "t": "비공식 손님 장부 첫째 권: 30년 전~10년 전 기록. ‘이름 모르는 손님’이 많고, 이름 대신 발자국·꽃·동그라미·별을 그린 줄이 있다."}, "C12": {"n": "세련의 말", "t": "세련: “11시 종에 주머니를 봉해 머리맡에 두고 잤고, 자정에도 잤다. 회중시계로 6시 반 기상을 확인했고, 주머니가 없어 복도까지 찾다 7시에 알렸으며, 여관은 어제가 처음이다.”"}, "C13": {"n": "밤이의 목격담", "t": "밤이: “6시 반쯤 족제비 손님이 붉은 봉인띠를 두른 가죽 주머니를 들고 시계 앞을 지나 저쪽으로 갔다가 금방 빈손으로 왔다.” 보여 준 돈주머니가 맞다고 했다.", "t2": "밤이: “자정쯤 족제비 손님이 붉은 봉인띠를 두른 가죽 주머니를 들고 시계 앞을 지나 저쪽으로 갔다가 금방 빈손으로 왔다.” 보여 준 돈주머니가 맞다고 했으며, 회의에서 목격 시각을 자정으로 정정했다."}};Object.keys(S).forEach(function(id){var x=EP.EV[id],o=S[id];if(!x)return;x.full=x.name;x.detail=x.desc;x.name=o.n;x.card=o.t;x.desc=SH[id]||o.t;if(x.desc2&&o.t2){x.detail2=x.desc2;x.card2=o.t2;x.desc2=SH2[id]||o.t2}})})();
 
  /* 다람 수첩: 다람이 직접 적은 메모(확인된 사실 카드와 따로 표시) */
  EP.MEMO={C01:"별 도장. 끝이 동그랗게 말려 있음. 빨간 인주가 손에 묻었다. 아직 덜 말랐다.",C02:"이불 모서리에 하얀 손자국. 분필인지 밀가루인지 모르겠다.",C03:"나비: 11시까지 빵 반죽, 그리고 잠.",

diff --git a/preview/ch1-gpt-20261008/dev/inn_audio.js b/preview/ch1-gpt-20261008/dev/inn_audio.js
@@ -19,7 +19,18 @@
   A.SONGS.inn_travel={bpm:92,spb:12,vol:1.05,prog:["F","C/E","Dm","Bb","F","Gm","Bb C","F"],   /* 따뜻한 6/8: 칼림바 선율 + 일렉 피아노 분산화음 + 현 패드, 타악기 없음 */
    mel:[{n:"C5 _ A4 _ C5 F5 | E5 _ _ _ C5 _ | D5 _ F5 _ A5 G5 | F5 _ _ _ D5 _ | C5 _ A4 _ C5 F5 | G5 _ F5 _ E5 D5 | D5 _ C5 _ Bb4 E5 | F5 _ _ _ . .",i:"kal",v:.24}],
    arp:{n:"1 5 8 10 8 5",r:2,i:"ep",v:.05,o:48},bass:{n:"1 _ _ 5 _ _",i:"sub",v:.4,o:36},pad:{i:"string",v:.04,o:57},echo:.28};
-  A.SONGS.inn_inv={bpm:76,vol:.85,prog:["Em","CM7","Am7","B7","Em","G","Am C","B7"],
+  /* 2026-10-10 "수사 중인데도 몽환적·평화롭다": 조사·회의·최종 대결을 다른 곡으로. 하이햇('똑딱')은 쓰지 않고 낮은 킥만 */
+  A.SONGS.inn_inv={bpm:92,vol:1.25,prog:["Am","Am","F","E","Am","Dm","F E","Am"],   /* 조사: 단조, 피치카토 베이스 반복, 짧은 스타카토 */
+   mel:[{n:"E5 _ _ _ . . C5 _ | B4 _ _ _ . . . . | A4 _ _ _ C5 _ E5 _ | G#4 _ _ _ . . . . | E5 _ _ _ F5 _ E5 _ | D5 _ _ _ . . F5 _ | E5 _ D5 _ C5 _ B4 _ | A4 _ _ _ . . . .",i:"vibe",v:.2}],
+   arp:{n:"1 . 5 . 8 . 5 .",r:1,i:"stac",v:.05,o:48},bass:{n:"1 . 1 . 5 . 1 .",i:"pizz",v:.6,o:33},pad:{i:"pad",v:.04,o:55},
+   dr:["k.......k......."],echo:.14};
+  A.SONGS.inn_meet={bpm:100,vol:1.05,prog:["Dm","Bb","Gm","A","Dm","Bb","Gm A","Dm"],   /* 회의: 맥박처럼 이어지는 베이스, 금관 짧게 */
+   mel:[{n:"D5 _ _ _ . . F5 _ | F5 _ D5 _ . . . . | G5 _ _ _ Bb5 _ A5 _ | A5 _ _ _ C#5 _ . . | D5 _ _ _ . . A5 _ | Bb5 _ A5 _ G5 _ F5 _ | G5 _ _ _ E5 _ C#5 _ | D5 _ _ _ . . . .",i:"brass",v:.14}],
+   bass:{n:"1 1 1 1 1 1 1 1",i:"bsyn",v:.3,o:30},pad:{i:"string",v:.05,o:54},dr:["k.......k.......","..........d....."],echo:.18};
+  A.SONGS.inn_climax={bpm:112,vol:.6,prog:["Cm","Cm","Ab","G","Cm","Fm","Ab Bb","G"],   /* 최종 대결: 빠르고 날카롭게 */
+   mel:[{n:"G5 _ _ _ Ab5 _ G5 _ | Eb5 _ _ _ _ _ D5 _ | C5 _ _ _ Eb5 _ D5 C5 | B4 _ _ _ D5 _ _ _ | G5 _ _ _ C6 _ Bb5 _ | Ab5 _ _ _ G5 _ F5 _ | Eb5 _ F5 _ G5 _ Ab5 _ | B5 _ _ _ _ _ . .",i:"brass",v:.16}],
+   arp:{n:"1 5 8 5",r:1,i:"stac",v:.05,o:48},bass:{n:"1 . 1 . 1 . 5 .",i:"bsq",v:.45,o:36},dr:["k.....k...k.....","........s......."],echo:.12};
+  A.SONGS.inn_inv_old={bpm:76,vol:.85,prog:["Em","CM7","Am7","B7","Em","G","Am C","B7"],
    mel:[{n:"B5 _ _ _ G5 _ E5 _ | E5 _ _ _ D5 _ B4 _ | C5 _ E5 _ A5 _ G5 _ | F#5 _ _ _ D#5 _ _ _ | E5 _ G5 _ B5 _ E6 _ | D6 _ _ B5 _ _ G5 _ | A5 _ C6 _ E6 _ D6 _ | D#6 _ _ _ _ _ . .",i:"kal",v:.2}],
    arp:{n:"1 5 8 10 8 5 . .",r:2,i:"pluck",v:.08,o:52},bass:{n:"1 _ _ _ _ _ _ _",i:"sub",v:.42,o:36},pad:{i:"glass",v:.045,o:60},echo:.3};
   A.SONGS.inn_after={bpm:72,vol:.85,prog:["F","C/E","Dm","Bb","F/A","Gm","Bb C","F"],
@@ -36,7 +47,9 @@
     if(['P1','P2','P3','P4','P5','P6','P7','P8','P9','P10'].indexOf(sid)>=0)return "inn_travel";   /* P1~P10 */
     if(sid==="P11"){if(/^제 주머니가 없어졌|^계약금이 든 주머니/.test(lineText()))M.inv=true;   /* 2026-10-10: 범죄를 처음 알아채는 줄(세련의 외침)에서 바로 긴장곡 */return M.inv?"inn_inv":null}   /* P11: 신고 확인 뒤 */
     return "inn_inv"}
-   if(!b.inn_final)return "inn_inv";                /* 조사·회의·최종: 같은 곡, 같은 재생 위치 */
+   if(!b.inn_final){var rt=document.querySelector("body>.rt");if(!rt)return "inn_inv";
+    try{var ph=window.__rtPh&&__rtPh(),E=window.EP1INN||{};if(ph&&E.FINAL&&E.FINAL.phases&&E.FINAL.phases.indexOf(ph)>=0)return "inn_climax"}catch(e){}
+    return "inn_meet"}                              /* 조사 / 원탁회의 / 최종 대결: 장면마다 다른 곡 */
    if(M.fin&&Date.now()-M.fin>7000)return null;     /* 마지막 줄 뒤 천천히 끝난 다음 */
    return "inn_after"};
   window.__innDuck=function(){
@@ -59,9 +72,9 @@
   /* ---- 타이핑음 ---- */
   var lastT=0;
   window.__innType=function(kind){try{
-   if(!S.sound||!AC||AC.state!=="running")return;var now=AC.currentTime;if(now-lastT<.075)return;lastT=now;
+   if(!S.sound||!AC||AC.state!=="running")return;var now=AC.currentTime;if(now-lastT<.055)return;lastT=now;
    var v=kind==="inner"?.6:kind==="narr"?.7:1;   /* 2026-10-10: 타이핑 약 +10dB, 소리 높이를 조금씩 달리해 반복 피로를 줄임 */
-   noise(.016,.11*v,0,2100+Math.random()*500,"bandpass");tone(420+Math.random()*90,.028,"triangle",.07*v)}catch(e){}};
+   tone(560+Math.random()*60,.026,"square",.045*v);noise(.01,.06*v,0,2600,"bandpass")}catch(e){}};   /* 2026-10-10 "따따따 전자음": 짧은 사각파 블립 + 작은 클릭 */
   var _blip=SFX.blip;
   SFX.blip=function(){if(!cur())return _blip.apply(this,arguments);window.__innType(lineKind())};
 

diff --git a/preview/ch1-gpt-20261008/dev/inn_stage.js b/preview/ch1-gpt-20261008/dev/inn_stage.js
@@ -303,7 +303,7 @@ if(k==="det1"){var dm=String(m||"").split(/\s+/)[0];return "art/ch1/cast/"+(DFAC
   return splitLong(s.slice(0,b),inner).concat(splitLong(s.slice(b+1),inner))}
  function pageLine(x){if(!Array.isArray(x)||typeof x[1]!=="string"||typeof x[0]!=="string"||x[0].charAt(0)==="@")return [x];
   var t=x[1];if(t.indexOf("<")>=0)return [x];var inner=x[0]==="narr"&&/^\(.*\)$/.test(t),body=inner?t.slice(1,-1):t;
-  var parts=joinShort(sents(body)).map(function(p){return BRK[p]||p});if(!parts.length)return [x];
+  var parts=joinShort(sents(body)).map(function(p){return BRK[p]||commaBreak(p)});if(!parts.length)return [x];
   var segs=[];parts.forEach(function(p){splitLong(p,inner).forEach(function(q){segs.push(q)})});
   return segs.map(function(p,k){var y=x.slice();y[1]=inner?"("+p+")":p;y[7]=t;if(k>0){if(y[3]==="testi")y[3]="";if(y[5]!=null)y[5]=""}return y})}
  window.__innPageCold=function(L){try{var o=[];(L||[]).forEach(function(b){if(!b||typeof b.say!=="string"){o.push(b);return}var parts=joinShort(sents(b.say));if(parts.length<2&&fits2(b.say)){o.push(b);return}
@@ -311,13 +311,16 @@ if(k==="det1"){var dm=String(m||"").split(/\s+/)[0];return "art/ch1/cast/"+(DFAC
    segs.forEach(function(p,i){var c={};for(var k in b)c[k]=b[k];c.say=p;if(i>0){delete c.sfx;delete c.wait;delete c.push;delete c.pull;delete c.fxs;c.z=zEnd;c.id=(b.id||"")+"_"+i}o.push(c)})});return o}catch(e){return L}};
  /* 타이핑 호흡: 방금 찍은 글자 뒤에 쉴 틱 수(1틱 = 대사 속도 간격). 1장에서만 */
  window.__innPace=function(full,n){if(!cur())return 0;var ch=full.charAt(n-1),nx=full.charAt(n);if(n>=full.length)return 0;
-  if(ch==="…"||(ch==="."&&nx==="."))return 5;                          /* 말줄임: 점마다 */
-  if(/[.?!]/.test(ch)&&/[\s)」"”]/.test(nx||" "))return 9;              /* 문장 끝 */
-  if(ch===",")return 4;                                                /* 쉼표 */
-  if(ch==="\n")return 3;
+  if(ch==="…"||(ch==="."&&nx==="."))return 7;                          /* 말줄임: 점마다 */
+  if(/[.?!]/.test(ch)&&/[\s)」"”]/.test(nx||" "))return 12;              /* 문장 끝 */
+  if(ch===",")return 8;                                                /* 2026-10-10: 쉼표에서 한 박자 멈춤(약 0.25초) */                                                /* 쉼표 */
+  if(ch==="\n")return 2;
   var k=full.indexOf("…",n);if(k>0&&k-n<2&&k-n>=0&&/[^\s]/.test(nx))return 1;   /* 말줄임 바로 앞 글자는 느리게 */
   return 0};
  /* 대본에서 의도한 줄바꿈(같은 쪽 두 줄). 문장은 그대로, 줄만 나눈다 */
+ /* 2026-10-10 "대사를 두 줄로": 한 줄에 들어가도 18자 이상이고 쉼표가 있으면, 가운데에 가까운 쉼표 뒤에서 줄을 바꿔 두 줄 한 쪽으로(문장은 그대로) */
+ function commaBreak(p){if(p.indexOf("\n")>=0||p.length<18)return p;var best=-1,bs=1e9,mid=p.length/2;for(var i=0;i<p.length-1;i++){if(p.charAt(i)===","&&p.charAt(i+1)===" "){var L=i+1,R=p.length-i-2;if(L<7||R<6)continue;var sc=Math.abs(i-mid);if(sc<bs){bs=sc;best=i}}}
+  if(best<0)return p;var a=p.slice(0,best+1),b=p.slice(best+2);try{if(nLines(a,textW())>1||nLines(b,textW())>1)return p}catch(e){}return a+"\n"+b}
  var BRK={"두 사람 방은 앞 계단 쪽, 끝에서 둘째 방이에요.":"두 사람 방은 앞 계단 쪽,\n끝에서 둘째 방이에요."};
  window.__innPage=function(lines){try{if(!cur()||!Array.isArray(lines))return lines;var o=[];lines.forEach(function(x){pageLine(x).forEach(function(y){o.push(y)})});return o}catch(e){return lines}};
  window.__innSayX=function(base,self,lines,done,sk){return split(base,self,talkEntry(lines),done,sk)};

diff --git a/preview/ch1-gpt-20261008/dev/patches/24_vol_live.py b/preview/ch1-gpt-20261008/dev/patches/24_vol_live.py
@@ -1,0 +1,5 @@
+# 설정 음량: 배경음·효과음 모두 밀면 바로 들리게(실시간). 저장하면 그대로 유지, 취소/닫기면 저장값으로 되돌림(기존 shut)
+rep('if(k==="musicVolume")gains({musicVolume:W.musicVolume,sfxVolume:SET.sfxVolume})});',
+    'gains({musicVolume:W.musicVolume,sfxVolume:W.sfxVolume});if(k==="sfxVolume"){var _n=Date.now();if(!r.__lt||_n-r.__lt>160){r.__lt=_n;try{ac();SFX.select()}catch(e){}}}});')
+rep('r.addEventListener("change",function(){if(k==="sfxVolume"&&W.sfxVolume>0){try{ac();gains({musicVolume:W.musicVolume,sfxVolume:W.sfxVolume});SFX.select();setTimeout(function(){gains({musicVolume:W.musicVolume,sfxVolume:SET.sfxVolume})},350)}catch(e){}}})});',
+    'r.addEventListener("change",function(){try{ac();gains({musicVolume:W.musicVolume,sfxVolume:W.sfxVolume})}catch(e){}})});')

diff --git a/preview/ch1-gpt-20261008/dev/patches/25_bold_face.py b/preview/ch1-gpt-20261008/dev/patches/25_bold_face.py
@@ -1,0 +1,2 @@
+# 증언 글씨가 번져 보이던 문제: Galmuri11B(이미 굵은 글꼴)를 font-weight:700으로 부르면 브라우저가 한 번 더 가짜 굵게(합성)를 입혀 획이 뭉개진다. 글꼴 선언에 굵기 범위를 주어 합성을 막는다
+rep('font-family:"Galmuri11B";src:','font-family:"Galmuri11B";font-weight:100 900;src:')
